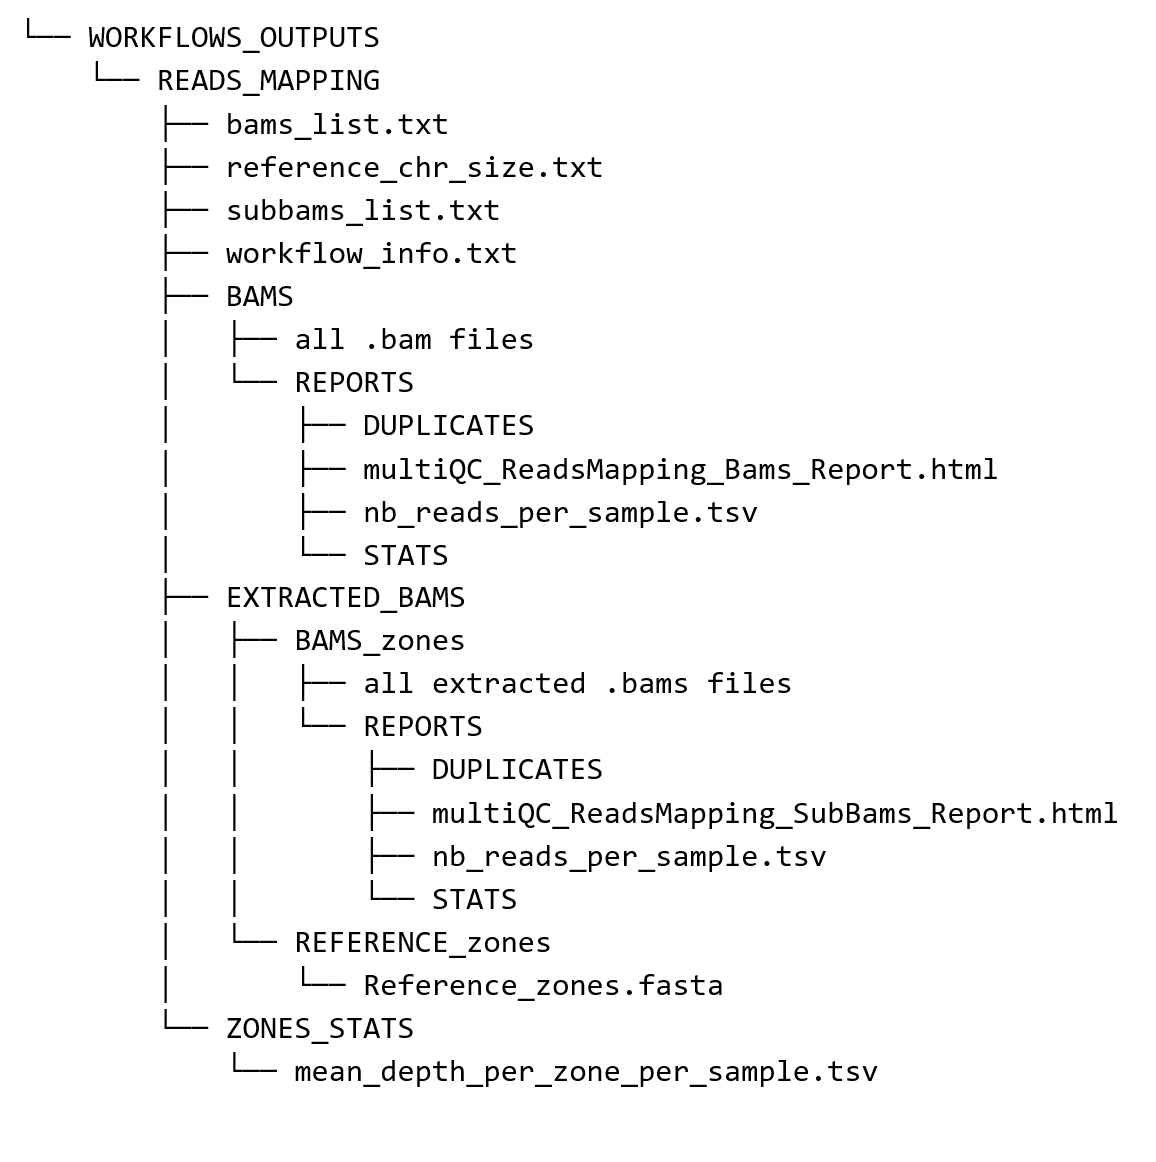
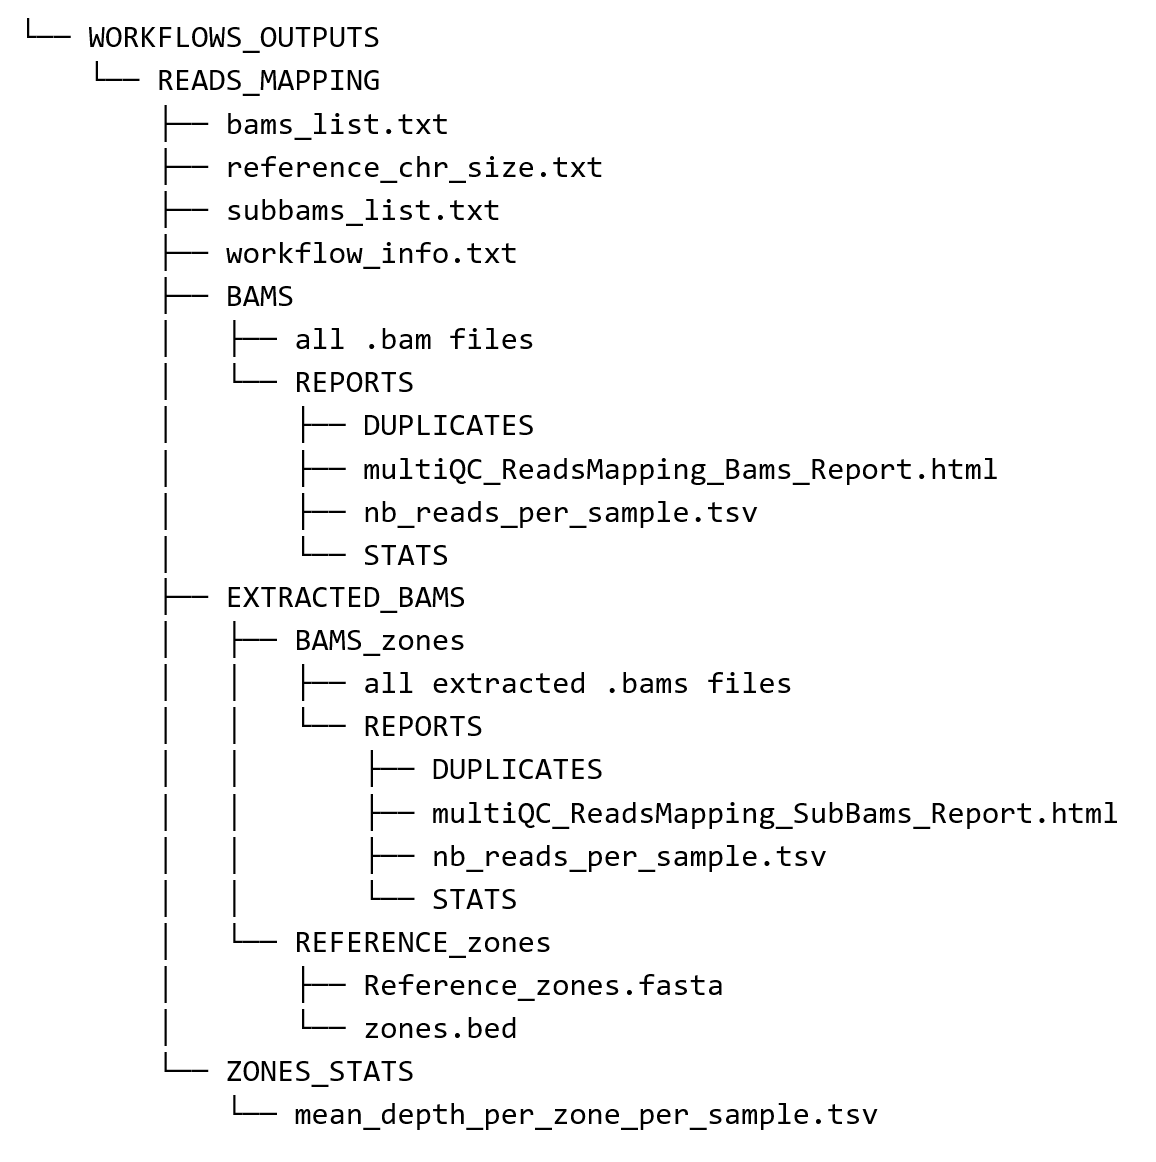
update frules names and readme

Changed region(s): [[0.1869, 0.8675, 0.5917, 0.9914], [0.6228, 0.8985, 0.7474, 0.9914]]

diff --git a/READS_MAPPING/README.md b/READS_MAPPING/README.md
@@ -180,7 +180,8 @@ This workflow will create a "READS_MAPPING" directory in the "WORKFLOWS_OUTPUTS"
 - *multiQC_ReadsMapping_SubBams_Report.html (and the associated directory)*:&nbsp;&nbsp;&nbsp;Graphic report based on stats reports to visualize the number and percentages of mapped reads in sub-bams\*  
 
 **EXTRACTED_BAMS/REFERENCE_ZONES directory** (if a bed file was provided and CREATE_SUB_BAMS was set to TRUE)  
-- *Reference_zones.fasta*:&nbsp;&nbsp;&nbsp;The sub-reference, corresponding to the extraction of the zones provided in the bed file  
+- *zones.bed*:&nbsp;&nbsp;&nbsp;Bed file containing the positions (start - end) of the genomic regions with enough coverage.
+- *Reference_zones.fasta*:&nbsp;&nbsp;&nbsp;The sub-reference, corresponding to the extraction of the zones provided in the bed file.  
 
 **ZONES_STATS directory** (if a bed file was provided) 
 - *mean_depth_per_zone_per_sample.tsv*:&nbsp;&nbsp;&nbsp;For each zone and each sample, the mean depth per zone (number of reads per base) 
@@ -209,23 +210,29 @@ These tools are loaded in a CONDA environment from the conda-forge and bioconda 
 ##  List of the snakefile rules
 Name, description and tools used for each of the snakemake workflow rules:
 
-| **Rule name**               | **Description**                                                                                                                | **Tools**                                                                                                                              |
-|:---------------------------:|:------------------------------------------------------------------------------------------------------------------------------:|:--------------------------------------------------------------------------------------------------------------------------------------:|
-| Index_Reference             | Creating the reference index if needed                                                                                         | bwa index // bwa-mem2 index // bowtie2-build // minimap2 -d                                                                            |
-| Mapping_PairedEndFastqs     | Mapping the input fastq files onto the reference (paired end reads), sort bams, remove duplicates if needed, create bams index | bwa mem // bwa-mem2 mem // bowtie2 // minimap2; samtools view; samtools fixmate; picard SortSam; picard MarkDuplicates; samtools index |
-| Mapping_SingleEndFastqs     | Mapping the input fastq files onto the reference (single end reads), sort bams, remove duplicates if needed, create bams index | bwa mem // bwa-mem2 mem // bowtie2 // minimap2; samtools view; samtools fixmate; picard SortSam; picard MarkDuplicates; samtools index |
-| Stats_Bams                  | Computing mapping stats                                                                                                        | samtools stats                                                                                                                         |
-| Summarize_BamsReadsCount    | Summarizing reads count in bams from samtools stats output                                                                     |                                                                                                                                        |
-| MultiQC_Bams                | Runing MultiQC on samtools stats output                                                                                        | MultiQC                                                                                                                                |
-| Create_BamsList             | Writing list of bams files                                                                                                     |                                                                                                                                        |
-| CountReadsZones_Bams        | Counting reads in each zone provided in the bed file for each sample                                                           | samtools bedcov                                                                                                                        |
-| Create_SubReference         | Generating the reduced reference corresponding to the genomic zones provided in the bed file                                   | samtools faidx                                                                                                                         |
-| Create_ChainFile            | Generating a file in chain format corresponding to the genomic zones provided in the bed file, necessary for the Extract_Reads rule | samtools faidx                |
-| Extract_Reads               | Extracting reads that mapped to the zones provided in the bed file, thus creating subbams                                      | crossmap                                                                                                                               |
-| Stats_Subbams               | Computing mapping stats for subbams                                                                                            | samtools stats                                                                                                                         |
-| Summarize_SubbamsReadsCount | Summarizing reads count in subbams from samtools stats output                                                                  |                                                                                                                                        |
-| MultiQC_Subbams             | Runing MultiQC on samtools stats output                                                                                        | MultiQC                                                                                                                                |
-| Create_SubbamsList          | Writing list of subbams files                                                                                                  |                                                                                                                                        |
+| **Rule name**               | **Description**                                                                                                                     | **Tools**                                                                                                                              |
+|:---------------------------:|:-----------------------------------------------------------------------------------------------------------------------------------:|:--------------------------------------------------------------------------------------------------------------------------------------:|
+| Index_Reference             | Creating the reference index if needed                                                                                              | bwa index // bwa-mem2 index // bowtie2-build // minimap2 -d                                                                            |
+| Mapping_PairedEndFastqs     | Mapping the input fastq files onto the reference (paired end reads), sort bams, remove duplicates if needed, create bams index      | bwa mem // bwa-mem2 mem // bowtie2 // minimap2; samtools view; samtools fixmate; picard SortSam; picard MarkDuplicates; samtools index |
+| Mapping_SingleEndFastqs     | Mapping the input fastq files onto the reference (single end reads)                                                                 | bwa mem // bwa-mem2 mem // bowtie2 // minimap2; samtools view; samtools fixmate;                                                       |
+| MarkDuplicates_Bams         | sort bams and remove duplicates if needed                                                                                           | picard SortSam; picard MarkDuplicates                                                                                                  |
+| Index_Bams                  | creating bams index                                                                                                                 | samtools index                                                                                                                         |
+| Stats_Bams                  | Computing mapping stats                                                                                                             | samtools stats                                                                                                                         |
+| Summarize_BamsReadsCount    | Summarizing reads count in bams from samtools stats output                                                                          |                                                                                                                                        |
+| MultiQC_Bams                | Runing MultiQC on samtools stats output                                                                                             | MultiQC                                                                                                                                |
+| Create_BamsList             | Writing list of bams files                                                                                                          |                                                                                                                                        |
+| Create_BedFile              | Creating bed file containing the positions of zones                                                                                 | samtools merge; bedtools genomecov                                                                                                     |
+| CountReadsZones_Bams        | Counting reads in each zone provided in the bed file for each sample                                                                | samtools bedcov                                                                                                                        |
+| Create_SubReference         | Generating the reduced reference corresponding to the genomic zones provided in the bed file                                        | samtools faidx                                                                                                                         |
+| Create_ChainFile            | Generating a file in chain format corresponding to the genomic zones provided in the bed file, necessary for the Extract_Reads rule | samtools faidx                                                                                                                         |
+| Extract_Reads               | Extracting reads that mapped to the zones provided in the bed file, thus creating subbams                                           | crossmap                                                                                                                               |
+| MarkDuplicates_Subbams      | sort subbams and remove duplicates if needed                                                                                        | picard SortSam; picard MarkDuplicates                                                                                                  |
+| Index_Subbams               | creating subbams index                                                                                                              | samtools index                                                                                                                         |
+| Stats_Subbams               | Computing mapping stats for subbams                                                                                                 | samtools stats                                                                                                                         |
+| Summarize_SubbamsReadsCount | Summarizing reads count in subbams from samtools stats output                                                                       |                                                                                                                                        |
+| MultiQC_Subbams             | Runing MultiQC on samtools stats output                                                                                             | MultiQC                                                                                                                                |
+| Create_SubbamsList          | Writing list of subbams files                                                                                                       |                                                                                                                                        |
+| Create_RefChrSizeFile       | Creating file with the name and size of each chromosome in the genomic reference                                                    | samtools faidx                                                                                                                         |
 
 
 ![](https://github.com/BioInfo-GE2POP-BLE/CAPTURE_PIPELINES_SNAKEMAKE/blob/main/readme_img/ReadsMapping_Workflow.jpg?raw=true)
